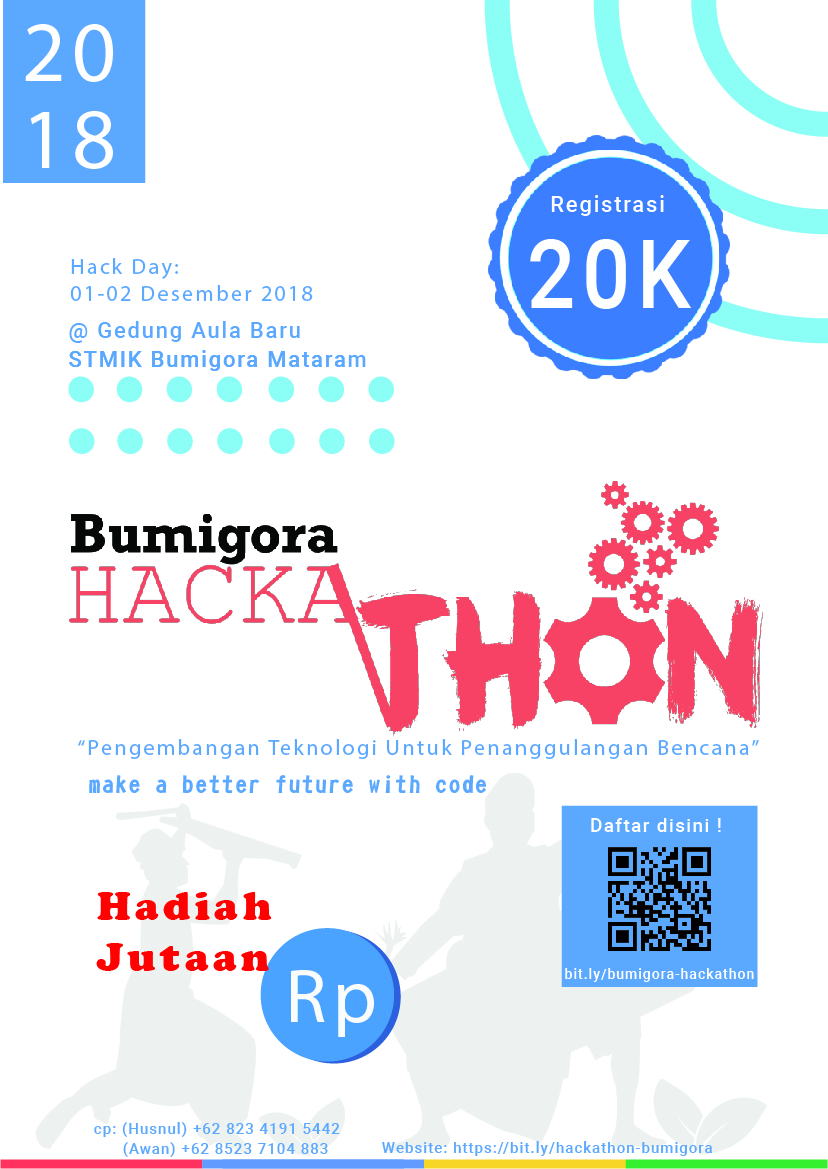
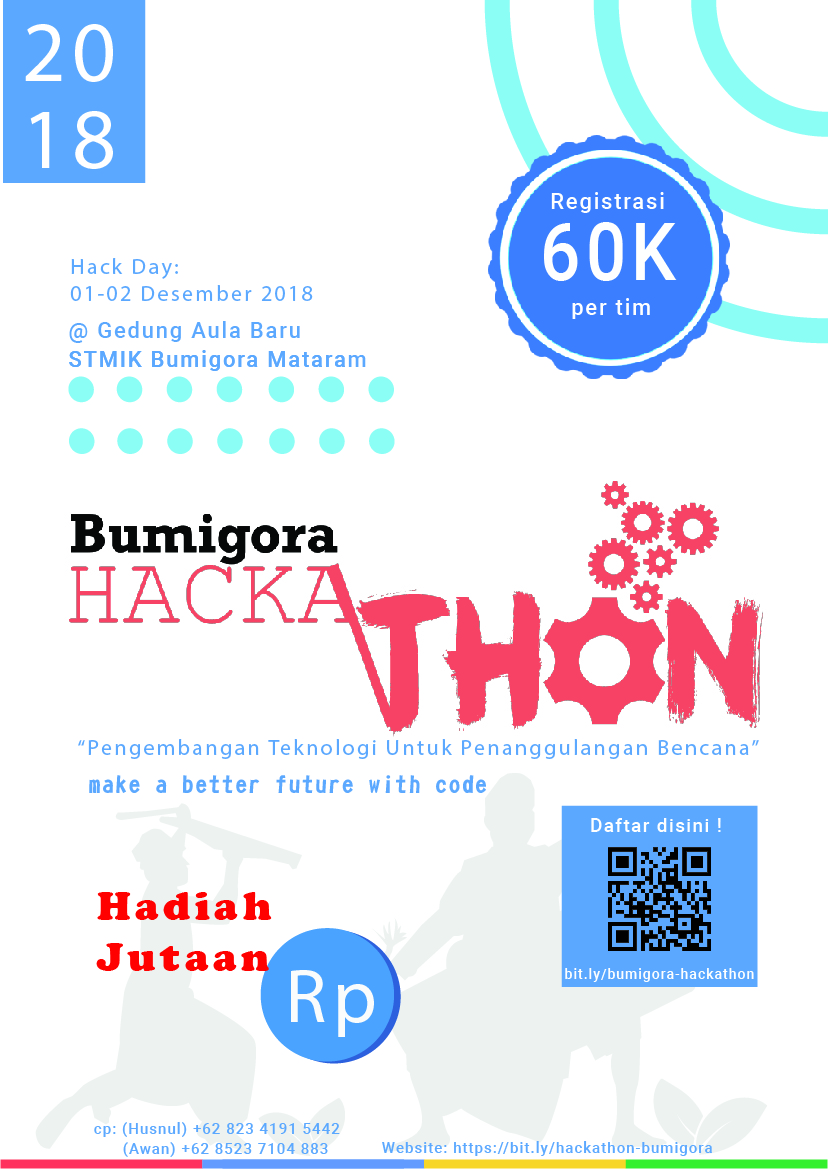
update faq

Changed region(s): [[0.6341, 0.154, 0.8454, 0.2772]]

diff --git a/about.html b/about.html
@@ -67,8 +67,12 @@
             </li>
             <li>
             <div class="collapsible-header"></i>Pendaftaran</div>
-            <div class="collapsible-body"><span>Pendaftaran akan dibuka mulai dari 10-28 November 2018. Baca lagi <a target="_blank" href="road.html">Timeline</a> untuk keterangan lebih lanjut.</span></div>
+            <div class="collapsible-body"><span>Pendaftaran melalui form registrasi secara personal dan akan dibuka mulai dari 10-28 November 2018. Baca lagi <a target="_blank" href="road.html">Timeline</a> untuk keterangan lebih lanjut.</span></div>
             </li>
+            <li>
+              <div class="collapsible-header"></i>Proses/teknik/cara pembayaran biaya pendaftaran?</div>
+              <div class="collapsible-body"><span>Pembayaran hanya akan dilakukan oleh ketua tim. pada saat pendaftran kami akan meminta status didalam tim, jika status sebagai ketua tim maka dialah yang akan mewakili untuk pembayaran.</span></div>
+              </li>
             <li>
             <div class="collapsible-header"></i>Pembayaran Baiaya Pendaftaran ?</div>
             <div class="collapsible-body"><span>Pembayaran pendaftaran akan di infokan lebih lanjut melalui email setelah anda registrasi.</span></div>
